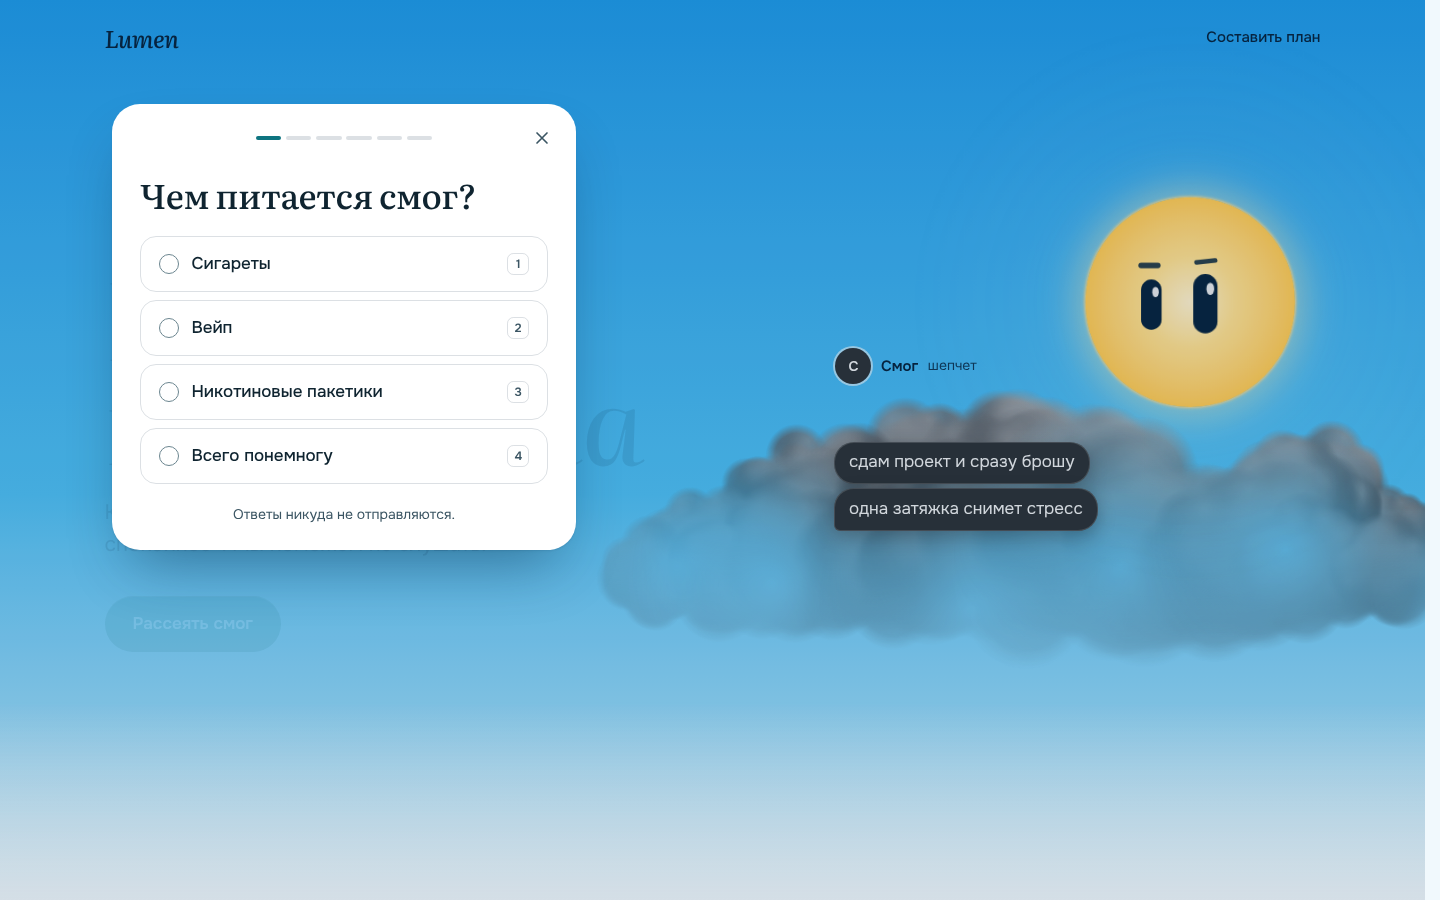
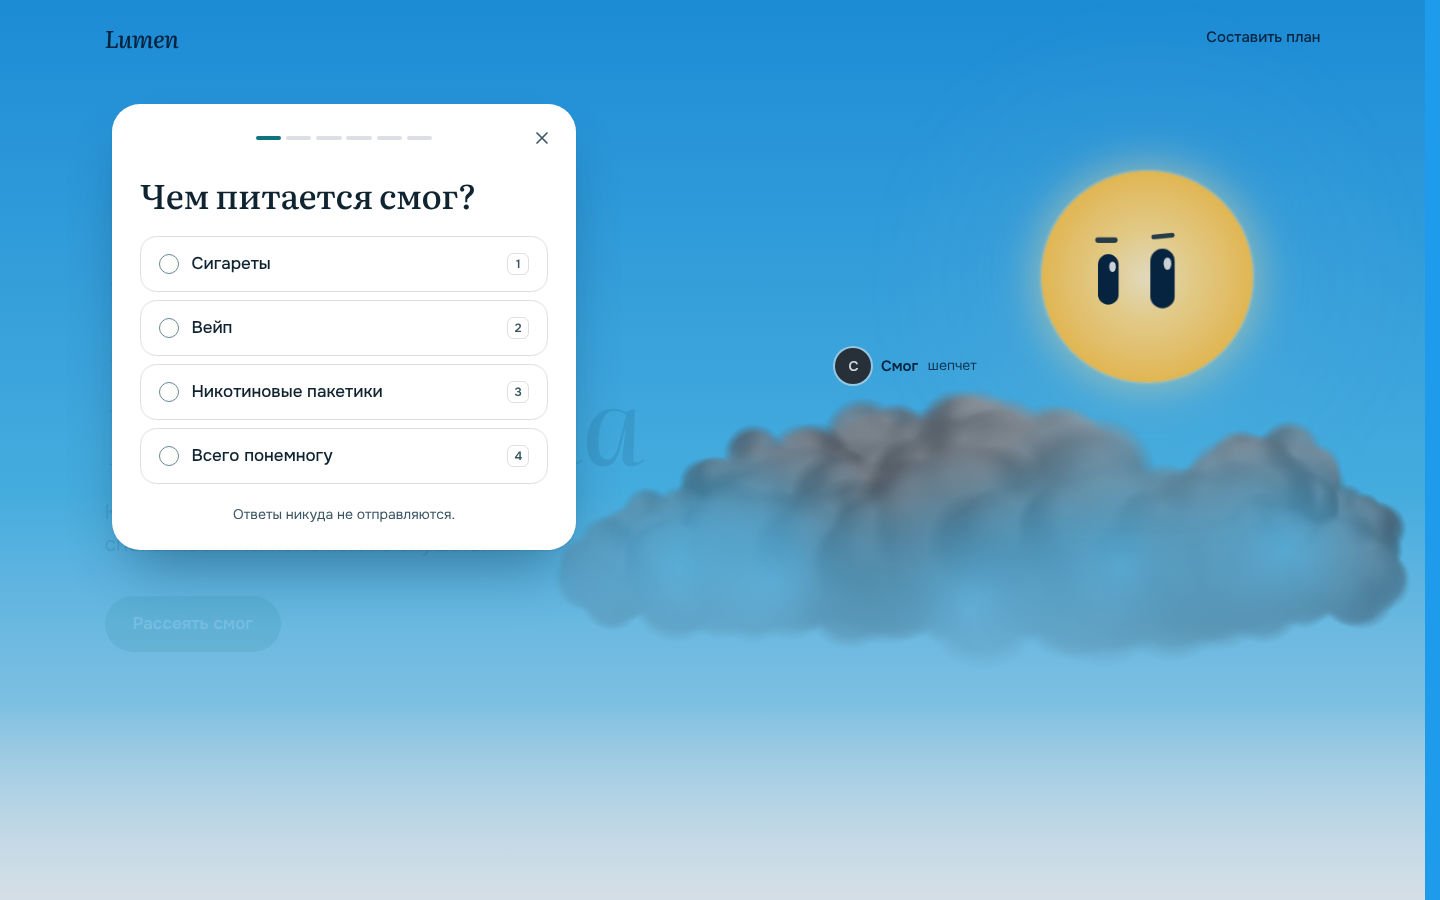
v9: Spark peeks above the cloud at start, cloud inside viewport, strip ramp, gutter
Claude-Session: https://claude.ai/code/session_01CKqe4UyzFgn5AFv8yWGEaJ

Changed region(s): [[0.375, 0.0, 1.0, 1.0], [0.4062, 0.6533, 0.4375, 0.7156]]

diff --git a/design/directions/v9.html b/design/directions/v9.html
@@ -215,8 +215,8 @@ input[type=range]:focus-visible::-moz-range-thumb{box-shadow:0 0 0 2px var(--sky
 
 /* ── Как это работает ── */
 .how-h{max-width:18ch}
-.how-grid{display:grid;grid-template-columns:minmax(0,5fr) minmax(0,7fr);gap:2.5rem clamp(2.5rem,6vw,6rem);align-items:start}
-.how-side{position:sticky;top:6rem;align-self:start}
+.how-grid{display:grid;grid-template-columns:minmax(0,5fr) minmax(0,7fr);gap:2.5rem clamp(2.5rem,6vw,6rem);align-items:center}
+.how-side{position:static}
 .talk{display:flex;flex-direction:column;gap:.6rem;padding-top:.5rem}
 @media (max-width:860px){.how-grid{grid-template-columns:minmax(0,1fr)}.how-side{position:static}}
 .talk p{max-width:min(36rem,88%);padding:.8rem 1.15rem;font-size:clamp(1.0625rem,1.4vw,1.25rem);line-height:1.4;text-wrap:pretty}
@@ -253,7 +253,7 @@ input[type=range]:focus-visible::-moz-range-thumb{box-shadow:0 0 0 2px var(--sky
 /* ── Срыв: месяц как полоса неба ── */
 .slip-h{max-width:16ch}
 .strip{display:grid;grid-template-columns:repeat(30,minmax(0,1fr));height:clamp(9rem,16vw,12rem);gap:2px;border-radius:.75rem;overflow:hidden;margin-top:clamp(2.5rem,5vw,4rem);}
-.strip i{position:relative;background:color-mix(in oklab,var(--sky-mid) calc(var(--k) * 100%),#9AAAB3)}
+.strip i{position:relative;background:color-mix(in oklab,var(--sky-top) calc(var(--k) * 100%),var(--sky-low))}
 .strip i.miss{background:var(--nick)}
 .strip i.next{background:color-mix(in oklab,var(--sky-mid) 10%,transparent)}
 @media (prefers-color-scheme:dark){:root:not([data-theme=light]) .strip i.next{background:#1A2A4A;box-shadow:inset 0 0 0 1px rgba(255,255,255,.08)}:root:not([data-theme=light]) .strip i.miss{background:#5A636B}}
@@ -343,7 +343,7 @@ dialog.plan{border:0;padding:0;margin:6.5rem max(1.5rem,calc((100vw - 76rem) / 2
   opacity:0;transform:translateY(1rem) scale(.98);transition:opacity .22s var(--ease-out),transform .22s var(--ease-out),overlay .22s allow-discrete,display .22s allow-discrete}
 dialog.plan[open].in{opacity:1;transform:none}
 dialog.plan.out{transition-duration:.16s}
-html:has(dialog.plan[open]){overflow:hidden;scrollbar-gutter:stable}
+html:has(dialog.plan[open]){overflow:hidden;scrollbar-gutter:stable;background:var(--sky-top)}
 dialog.plan::backdrop{background:rgba(6,30,50,0);transition:background-color .22s ease-out}
 dialog.plan.in::backdrop{background:rgba(6,36,63,.28)}
 .pl{display:flex;flex-direction:column;max-height:inherit;height:100%}
@@ -768,7 +768,7 @@ function makeSprites(pal){
     return c;
   });
 }
-function layout(){ return mobile() ? { cx: .52, cy: .22, w: 1.2, h: .3, peak: .74 } : { cx: .72, cy: .44, w: .52, h: .46, peak: .66 }; }
+function layout(){ return mobile() ? { cx: .52, cy: .22, w: 1.2, h: .3, peak: .74 } : { cx: .69, cy: .44, w: .52, h: .46, peak: .66 }; }
 function build(){
   rect = hero.getBoundingClientRect();
   const W0 = rect.width, H0 = rect.height, L = layout();
@@ -799,7 +799,7 @@ function build(){
   const tower = puffs.filter(p => p.layer === 'main' && Math.abs(p.x - sxp) < sr * 1.2);
   const towerTop = tower.length ? Math.min(...tower.map(p => p.y - p.rad)) : topY;
   const sy = Math.max((mobile() ? 92 : 100) + sr, towerTop + sr * .2);
-  sunEl.style.setProperty('--sun-hide', Math.max(0, (towerTop + sr * .7 - sy) / (sr * 2) * 100) + '%');
+  sunEl.style.setProperty('--sun-hide', Math.max(0, (towerTop + sr * .7 - sy) / (sr * 2) * 100 * .55) + '%');
   sunEl.style.setProperty('--sx', sxp + 'px'); sunEl.style.setProperty('--sy', sy + 'px');
   geo = { W0, H0, H, base, R, sx: sxp, sy, sr, glow: css('--smog-glow') };
   if (smogFrac) dissolveTo(smogFrac, true);
